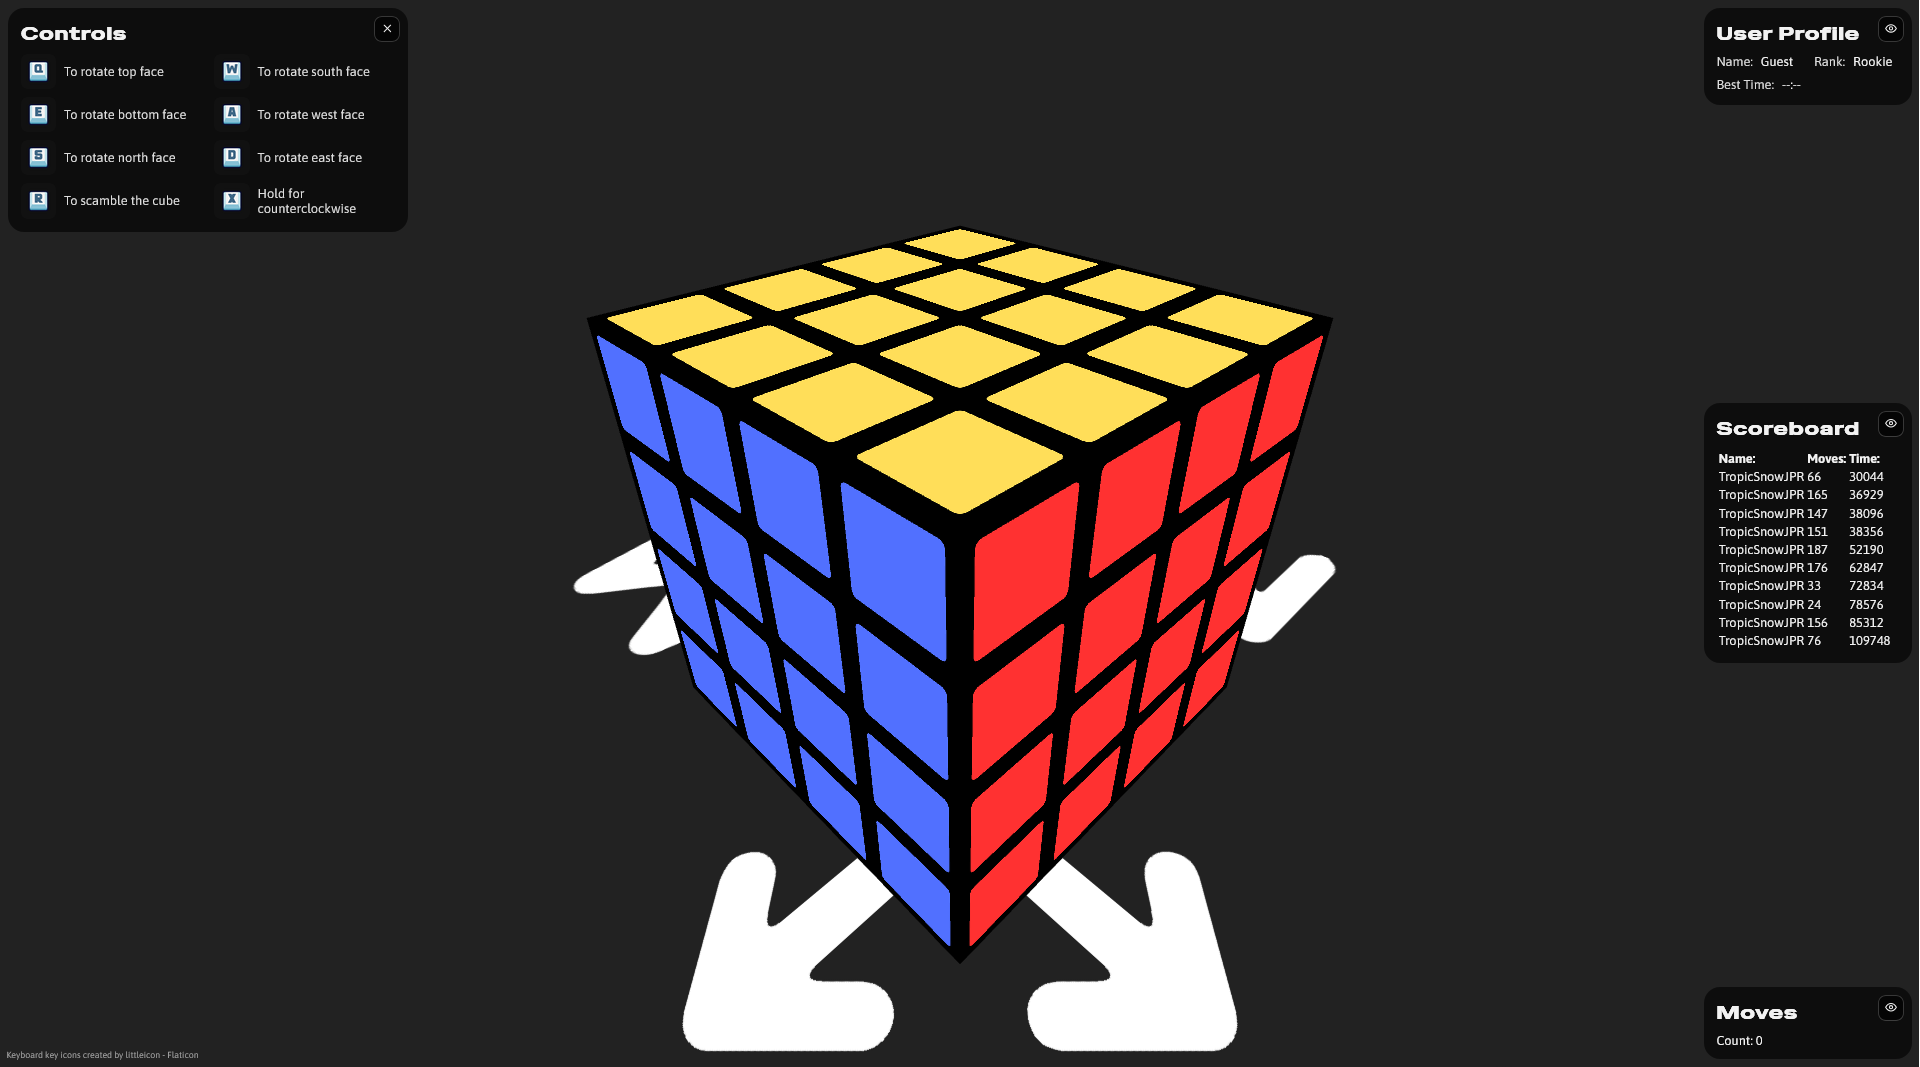
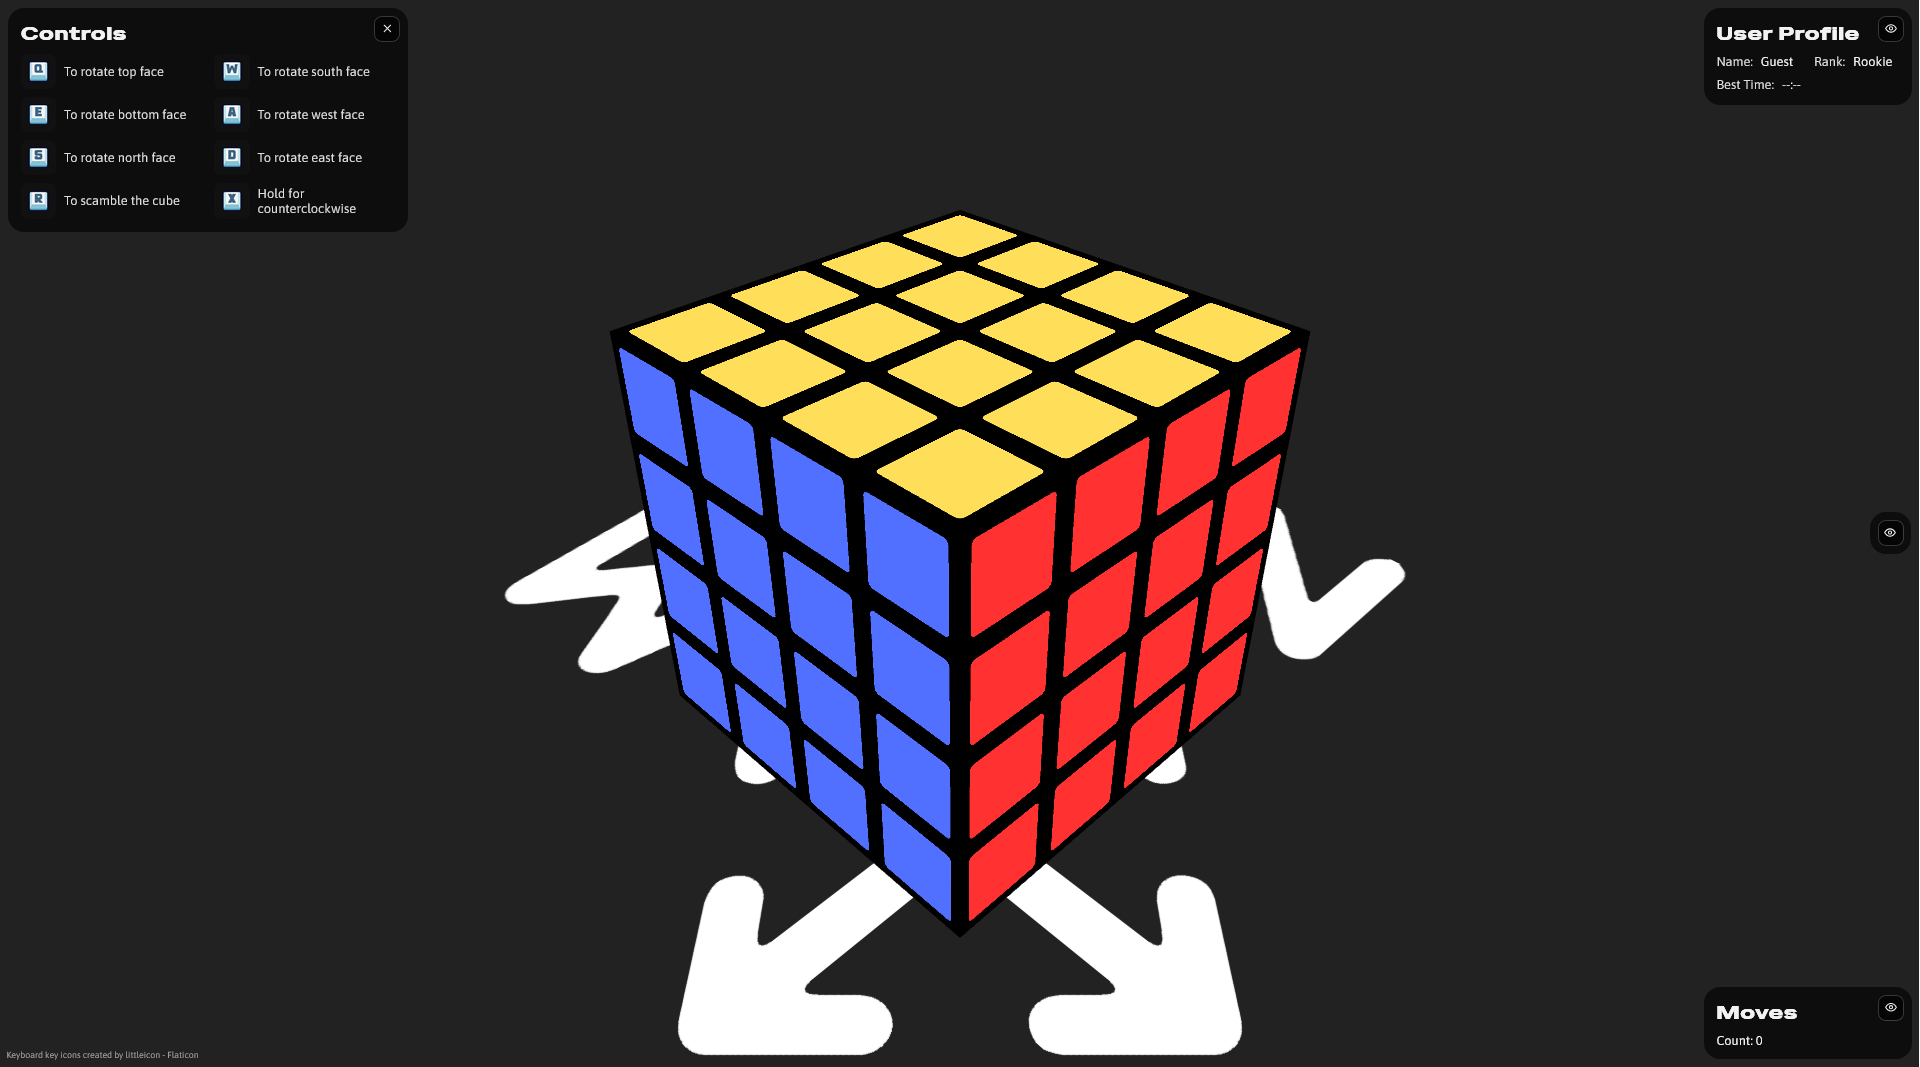
updated camera perspective and changed preview image

Changed region(s): [[0.25, 0.1856, 0.75, 0.9897], [0.875, 0.3711, 1.0, 0.6186]]

diff --git a/src/app/App.ts b/src/app/App.ts
@@ -39,7 +39,7 @@ class App {
         this.Size = size;
 
         this.Scene = new THREE.Scene();
-        this.Camera = new THREE.PerspectiveCamera(70, window.innerWidth / window.innerHeight, 0.1, 20_000);
+        this.Camera = new THREE.PerspectiveCamera(50, window.innerWidth / window.innerHeight, 0.1, 20_000);
         this.Renderer = new THREE.WebGLRenderer({
             antialias: true,
             alpha: true,
@@ -59,7 +59,7 @@ class App {
 
         document.body.append(this.Renderer.domElement);
 
-        this.Camera.position.set((this.Size), (this.Size), (this.Size));
+        this.Camera.position.set((this.Size*1.5), (this.Size*1.5), (this.Size*1.5));
         this.Controls.enableDamping = true;
         this.Controls.enableZoom = false;
         this.Controls.enablePan = false;